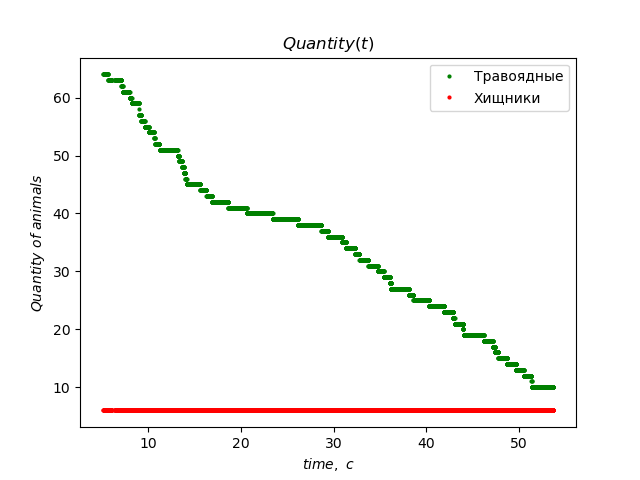
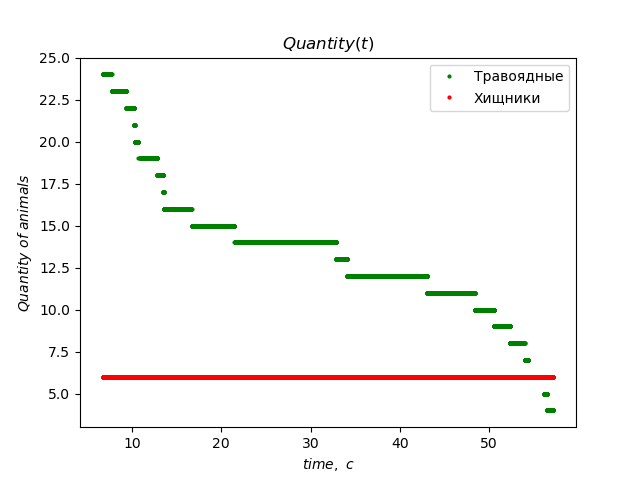
Timer for fruits

diff --git a/Main.py b/Main.py
@@ -100,8 +100,8 @@ def food_generation():
     global quant_fruits, fruits
     old_count = len(fruits)
     clock = Clock()
-    clock.start(0.000001)
-    quant_fruits += 1 * int(scale_fruit.get())
+    clock.start(100)
+    quant_fruits = 1 * int(scale_fruit.get())
     new_fruits = [0] * (quant_fruits - old_count)
     fruits.append(new_fruits)
     for i in range(old_count , len(fruits)):  # filling map with fruits
@@ -111,9 +111,11 @@ def food_generation():
 
 
 
+food_time = time.time()
+start_time = time.time()
 # head function
 def main_game():
-    global delta_t, current_time, cattle, predators, grass, DETERMINED, quant_cattle, quant_predators, quant_fruits
+    global delta_t, current_time, cattle, predators, grass, DETERMINED, quant_cattle, quant_predators, quant_fruits, food_time, start_time
     # if still works
     if not DETERMINED:
         determine_quantities_animals()
@@ -123,7 +125,7 @@ def main_game():
     # period of update
     delta_t = time.time() - current_time
     current_time = time.time()
-
+    food_time += delta_t
     for p in predators:  # predators action
         if p.state == 0:
             while ((p.coord_x - x_lake) / (a_axle + 0.5 * R)) ** 2 + (
@@ -177,7 +179,11 @@ def main_game():
             fruits.remove(f)
             quant_fruits -= 1
         f.update()
-    food_generation()
+    print(food_time, start_time)
+    if food_time - start_time > 1:
+        food_generation()
+        food_time = time.time()
+        start_time = time.time()
     write_statistics(delta_t)  # writes quantity and time in massives below
 
 
